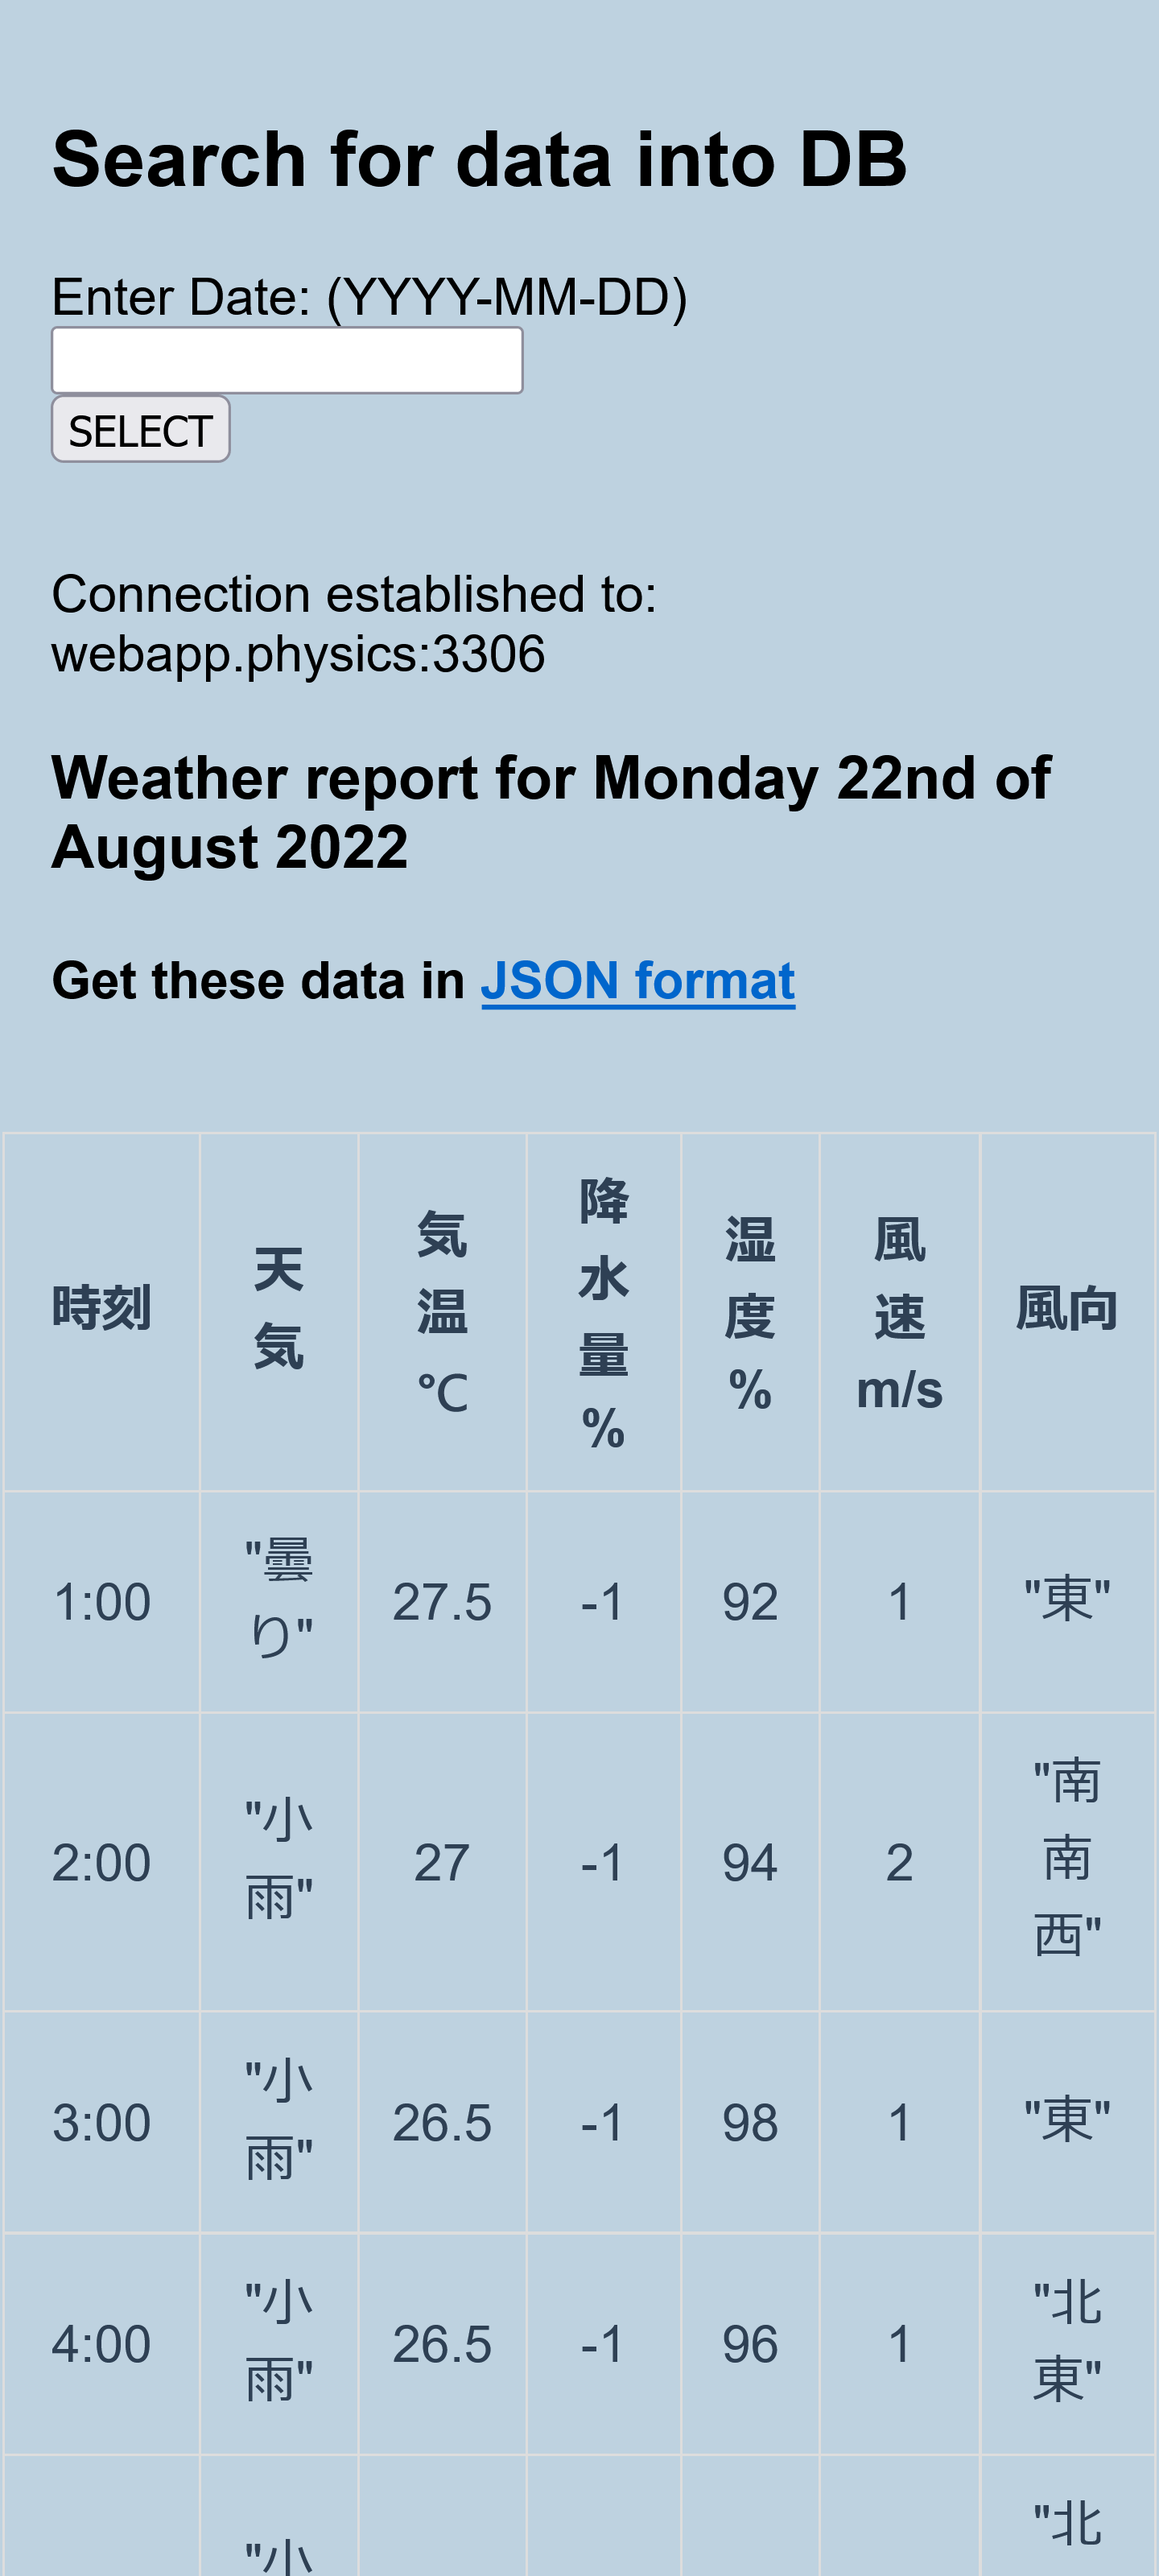
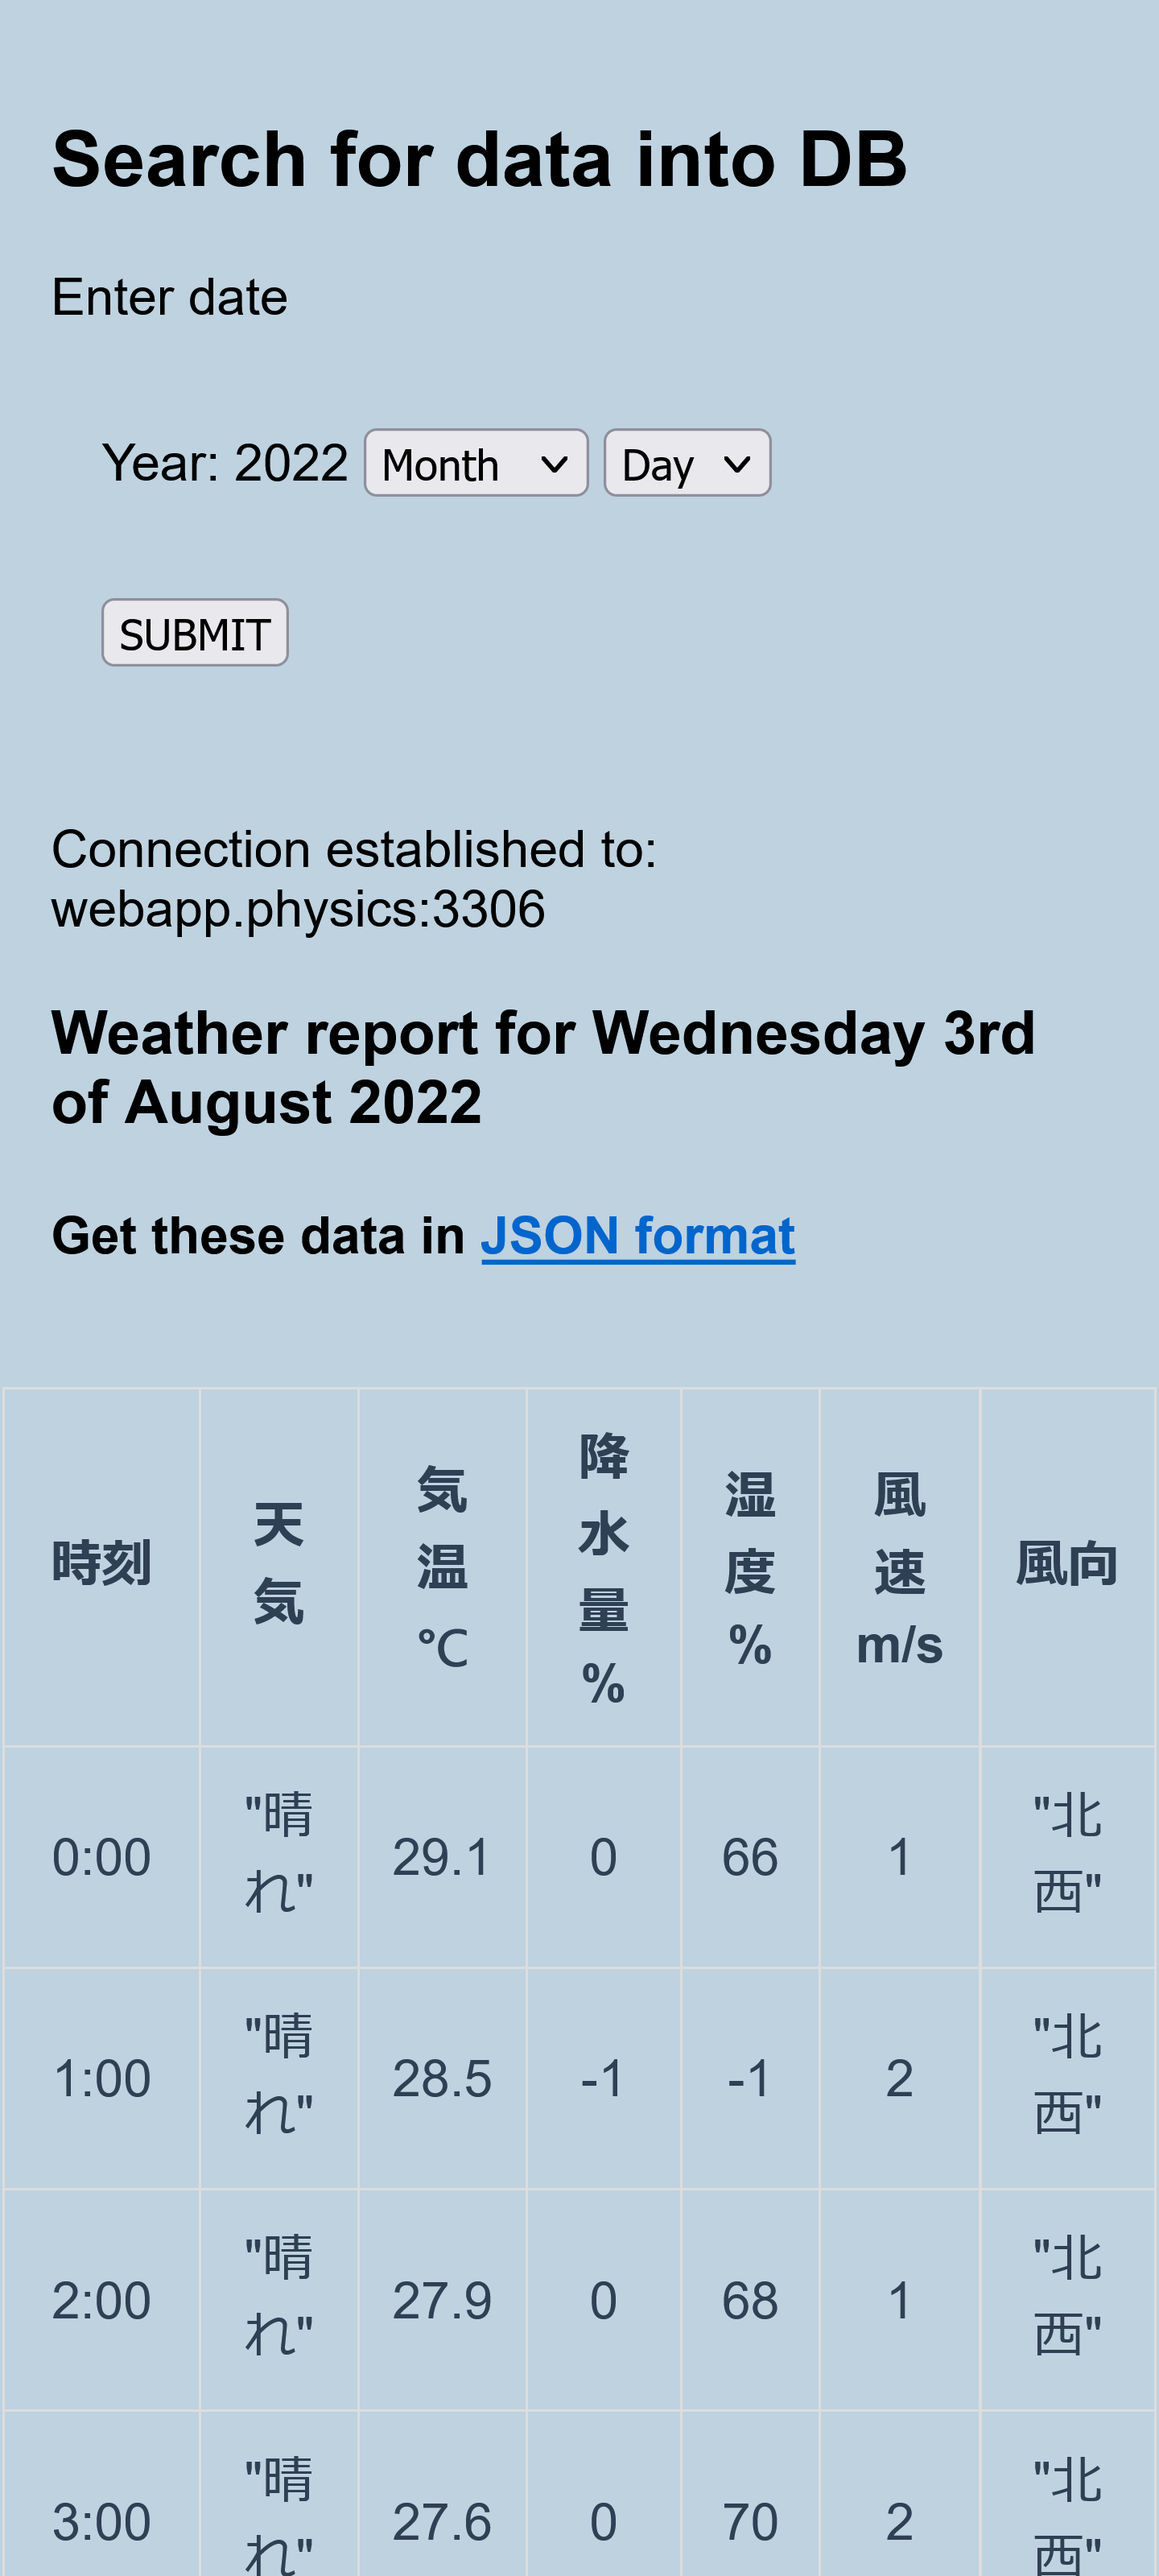
Validated month and day entry

diff --git a/rest-api/get_data.php b/rest-api/get_data.php
@@ -14,7 +14,7 @@ ini_set('display_errors',1);
     <h2>Search for data into DB</h2>
     <p>Enter date</p>
         <form method="post">
-            <div class="clearfix">
+            <div>
             <label>Year: 2022 </label>
             <select name="monty" id="monty">
                 <option>Month</option>
@@ -35,7 +35,7 @@ ini_set('display_errors',1);
                 ?>
             </select></div>
             <!--input type="text" name="myDate" min="07-29" max="08-31" required-->
-            <div class="clearfix">
+            <div>
                 <input type="submit" value="SUBMIT" name="Submit1">
             </div>
         </form>
@@ -59,6 +59,10 @@ if($dbhandle === false){
 
 $dbTable = "weather_data";
 
+if($_POST["monty"] == "Month" || $_POST["tag"] == "Day"){
+    echo "<p>Please select a month and a day.</p>";
+    exit;
+}
 $buildDate = "2022-".$_POST["monty"]."-".$_POST["tag"];
 //previously an input text: $query = "SELECT * FROM weather_data WHERE date='".$_POST["myDate"] ."';";
 
